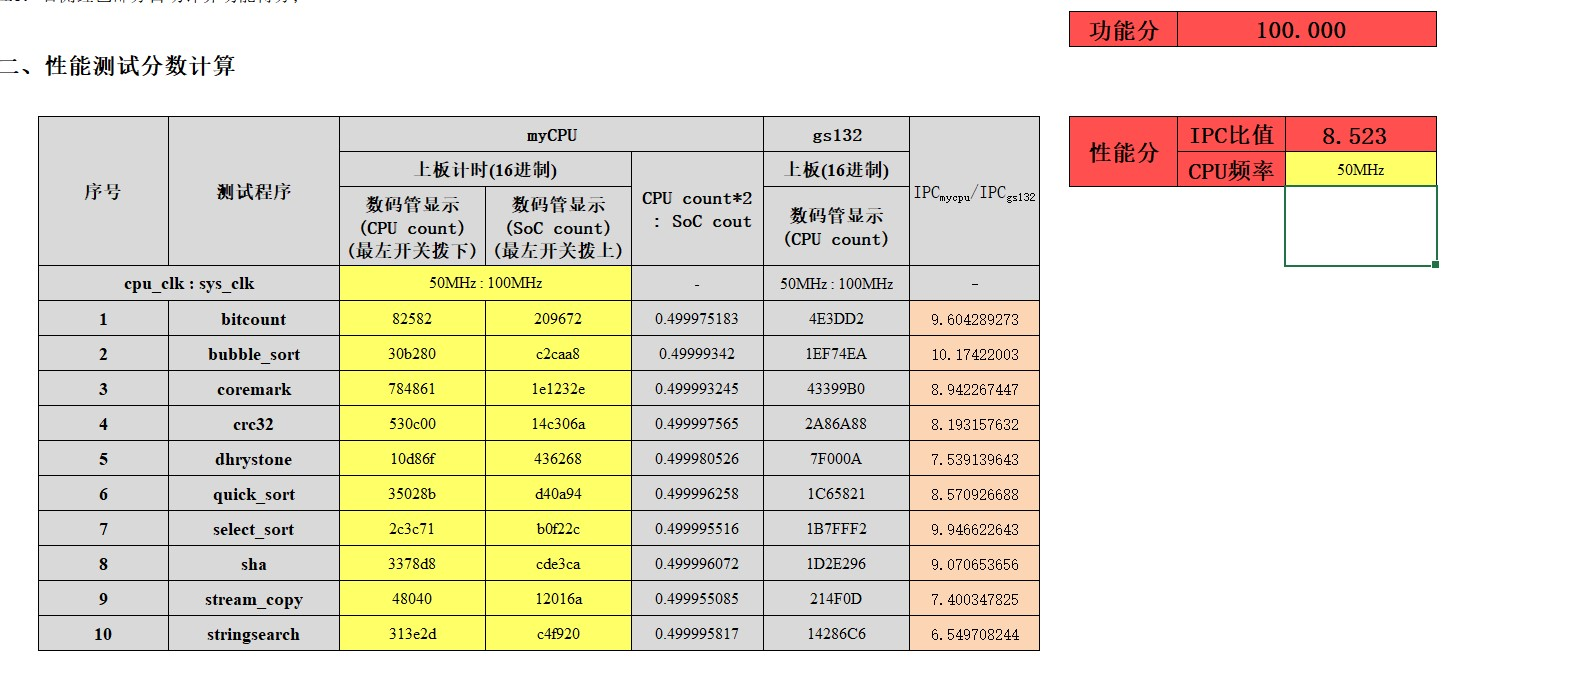
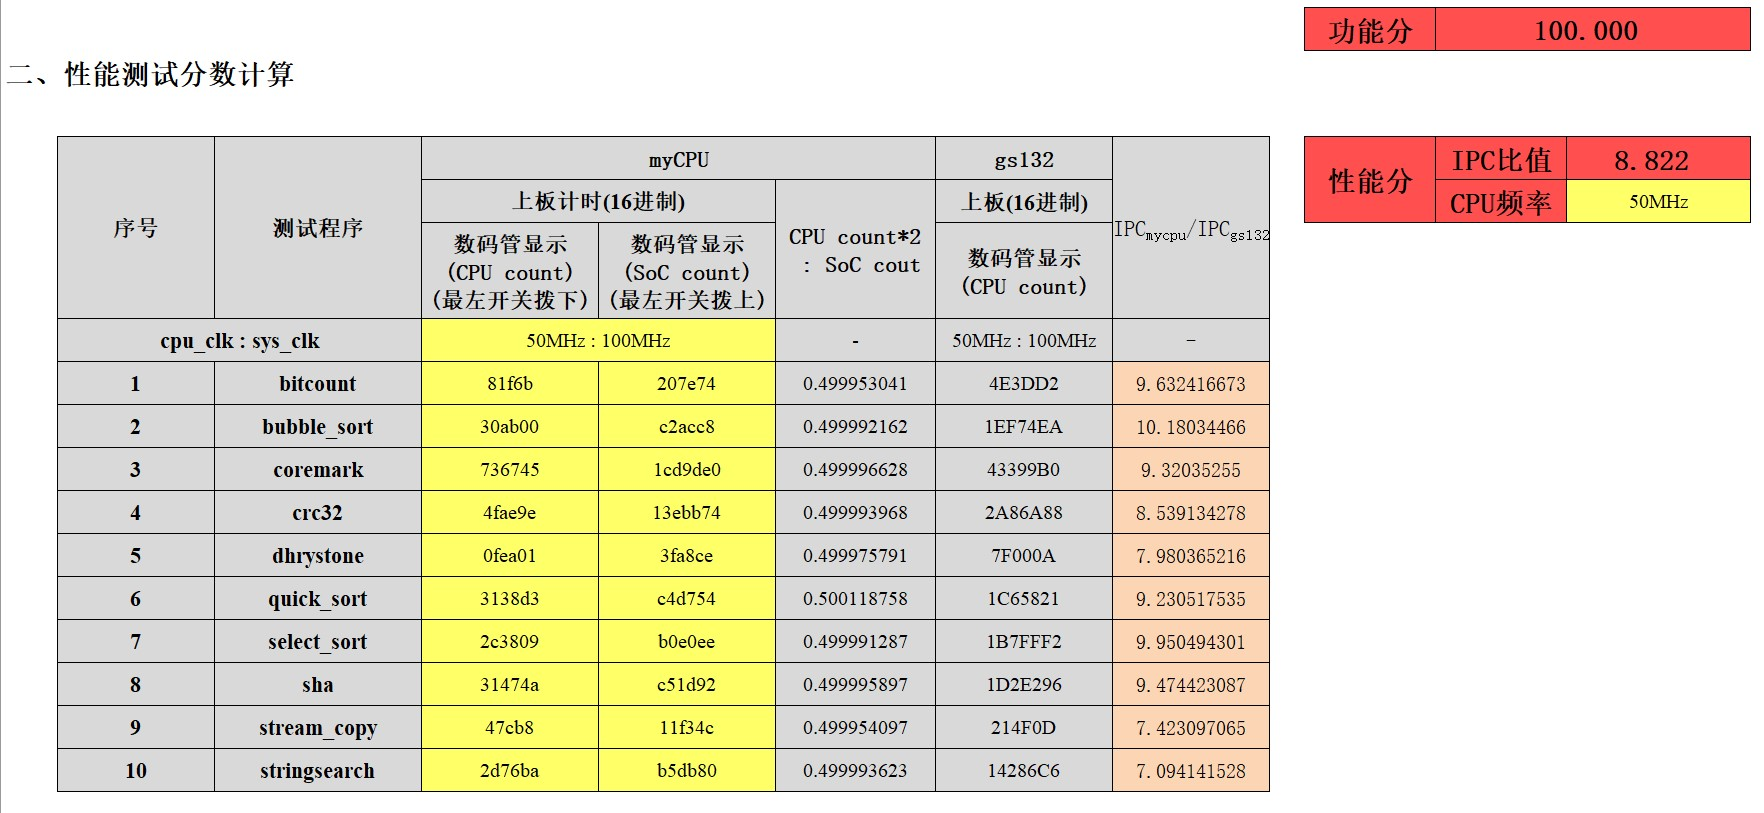
update README.md

diff --git a/README.md b/README.md
@@ -1,7 +1,13 @@
 # NSCSCC MIPS 2023
 ## 性能分
 
-2023/07/03
+### 2023/07/03
+
+原始版本，参考![bitmips2019](https://github.com/Silverster98/bitmips2019)
+
+### 2023/07/14
+
+增加ICache，IPC略有提升。
 
 ![](./pic/perf.jpg)
 
